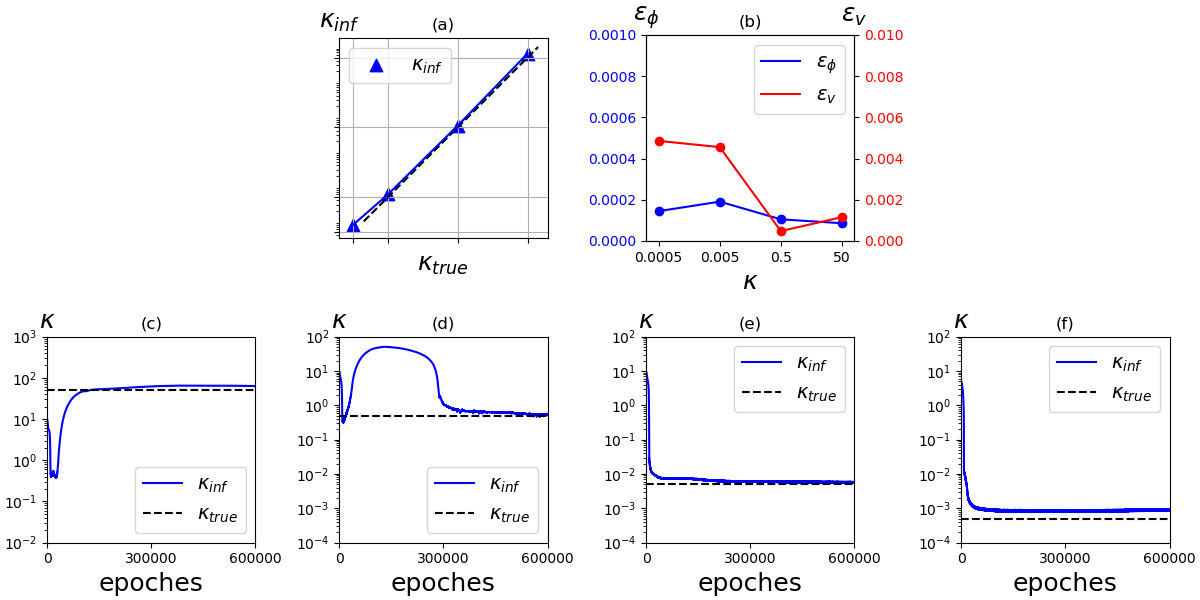
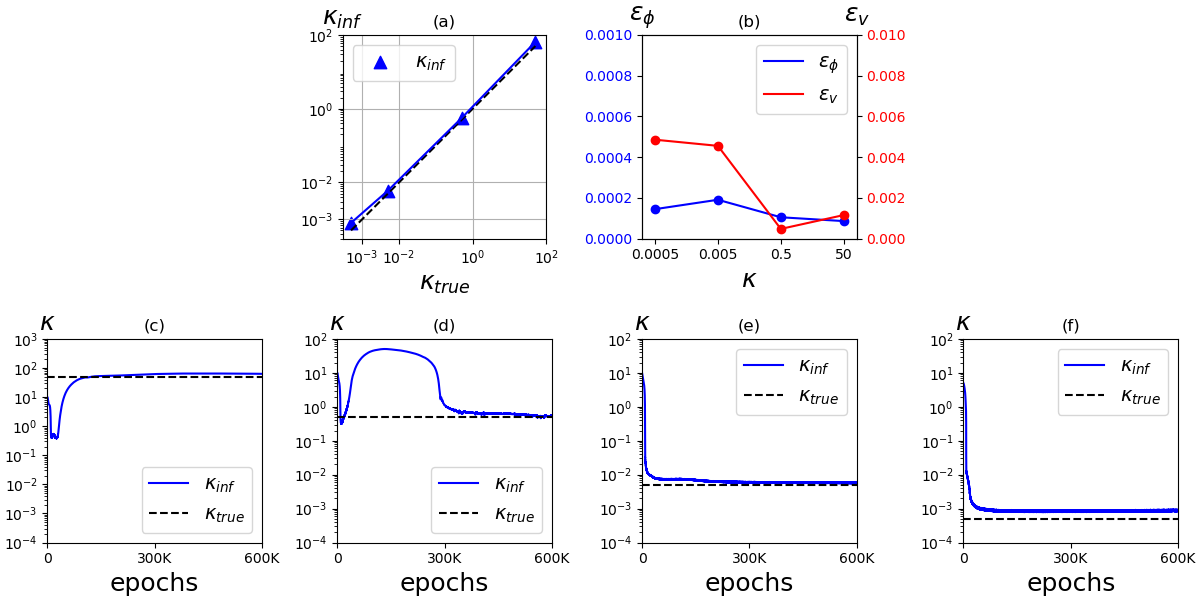
.

diff --git a/Thrombus/Plot/K_vary/fig_4.py b/Thrombus/Plot/K_vary/fig_4.py
@@ -19,7 +19,7 @@ def to_numpy(input):
 def main():
     ## parameters
     ## figure
-    x = np.linspace(0.001, 100, 101)
+    x = np.linspace(0.0005, 50, 201)
     num_data = 4
     K_inf_text = ['0.0008', '0.0060', '0.56', '65.01']
     K_ref_text = ['0.0005', '0.0050', '0.50', '50.0000']
@@ -30,13 +30,12 @@ def main():
 
     K_inf, K_ref, vel_err, phi_err = np.zeros((num_data)), np.zeros((num_data)), np.zeros((num_data)), np.zeros((num_data))
 
+    K=['0.0005', '0.005', '0.5', '50']
     for i in range(num_data):
         K_inf[i] = np.array(K_inf_text[i])
-        K_ref[i] = np.array(K_ref_text[i])
+        K_ref[i] = np.array(K[i])
         vel_err[i] = np.array(vel_err_text[i])
         phi_err[i] = np.array(phi_err_text[i])
-
-    K=['0.0005', '0.005', '0.5', '50']
 
     ## load data
     K100 = np.loadtxt('../../Inv_K/test_7/K_new.his')
@@ -60,10 +59,13 @@ def main():
 
     ax1.set_xlabel('$\kappa_{true}$', fontsize=18)
     ax1.set_ylabel('$\kappa_{inf}$', fontsize=18, rotation="horizontal")
-    ax1.set_xticks(K_ref)
-    ax1.set_yticks(K_ref)
+    ax1.set_xticks([0.001, 0.01, 1, 100])
+    ax1.set_yticks([0.001, 0.01, 1, 100])
+    # ax1.set_xticklabels(K_ref_text)
+    # ax1.set_yticklabels(K_ref_text)
     ax1.set_title('(a)')
-    # ax1.set_xlim([1e-3, 1e2])
+    ax1.set_xlim([3e-4, 1e2])
+    ax1.set_ylim([3e-4, 1e2])
     ax1.grid()
     ax1.set_aspect('equal')
     ax1.yaxis.set_label_coords(0.0,1.02)
@@ -99,57 +101,61 @@ def main():
     ax2.plot(K100, label='$\kappa_{inf}$', color='blue')
     ax2.set_yscale('log')
     ax2.axhline(y=50, linestyle="--", color="black", label='$\kappa_{true}$')
-    ax2.set_ylim((1e-2,1e3))
-    ax2.set_xlabel('epoches', fontsize=18)
+    ax2.set_ylim((1e-4,1e3))
+    ax2.set_xlabel('epochs', fontsize=18)
     ax2.set_ylabel('$\kappa$', fontsize=18, rotation="horizontal")
     ax2.legend(fontsize=14, loc='lower right')
     ax2.set_aspect('equal')
     ax2.set_xticks(np.linspace(0, 600000, 3))
+    ax2.set_xticklabels(['0', '300K', '600K'])
     ax2.set_xlim([0, 600000])
     ax2.yaxis.set_label_coords(0.0,1.02)
     ax2.set_title('(c)')
 
-    ## subplot [1, 0]
+    ## subplot [1, 1]
     ax2 = fig.add_subplot(gs[1,1])
     ax2.plot(K1, label='$\kappa_{inf}$', color='blue')
     ax2.set_yscale('log')
     ax2.axhline(y=0.5, linestyle="--", color="black", label='$\kappa_{true}$')
     ax2.set_ylim((1e-4,1e2))
-    ax2.set_xlabel('epoches', fontsize=18)
+    ax2.set_xlabel('epochs', fontsize=18)
     ax2.set_ylabel('$\kappa$', fontsize=18, rotation="horizontal")
     ax2.legend(fontsize=14, loc='lower right')
     ax2.set_aspect('equal')
     ax2.set_xticks(np.linspace(0, 600000, 3))
+    ax2.set_xticklabels(['0', '300K', '600K'])
     ax2.set_xlim([0, 600000])
     ax2.yaxis.set_label_coords(0.0,1.02)
     ax2.set_title('(d)')
 
-    ## subplot [1, 0]
+    ## subplot [1, 2]
     ax2 = fig.add_subplot(gs[1,2])
     ax2.plot(K001, label='$\kappa_{inf}$', color='blue')
     ax2.set_yscale('log')
     ax2.axhline(y=0.005, linestyle="--", color="black", label='$\kappa_{true}$')
     ax2.set_ylim((1e-4,1e2))
-    ax2.set_xlabel('epoches', fontsize=18)
+    ax2.set_xlabel('epochs', fontsize=18)
     ax2.set_ylabel('$\kappa$', fontsize=18, rotation="horizontal")
     ax2.legend(fontsize=14, loc='best')
     ax2.set_aspect('equal')
     ax2.set_xticks(np.linspace(0, 600000, 3))
+    ax2.set_xticklabels(['0', '300K', '600K'])
     ax2.set_xlim([0, 600000])
     ax2.yaxis.set_label_coords(0.0,1.02)
     ax2.set_title('(e)')
 
-    ## subplot [1, 0]
+    ## subplot [1, 3]
     ax2 = fig.add_subplot(gs[1,3])
     ax2.plot(K0001, label='$\kappa_{inf}$', color='blue')
     ax2.set_yscale('log')
     ax2.axhline(y=0.0005, linestyle="--", color="black", label='$\kappa_{true}$')
     ax2.set_ylim((1e-4,1e2))
-    ax2.set_xlabel('epoches', fontsize=18)
+    ax2.set_xlabel('epochs', fontsize=18)
     ax2.set_ylabel('$\kappa$', fontsize=18, rotation="horizontal")
     ax2.legend(fontsize=14, loc='best')
     ax2.set_aspect('equal')
     ax2.set_xticks(np.linspace(0, 600000, 3))
+    ax2.set_xticklabels(['0', '300K', '600K'])
     ax2.set_xlim([0, 600000])
     ax2.yaxis.set_label_coords(0.0,1.02)
     ax2.set_title('(f)')
